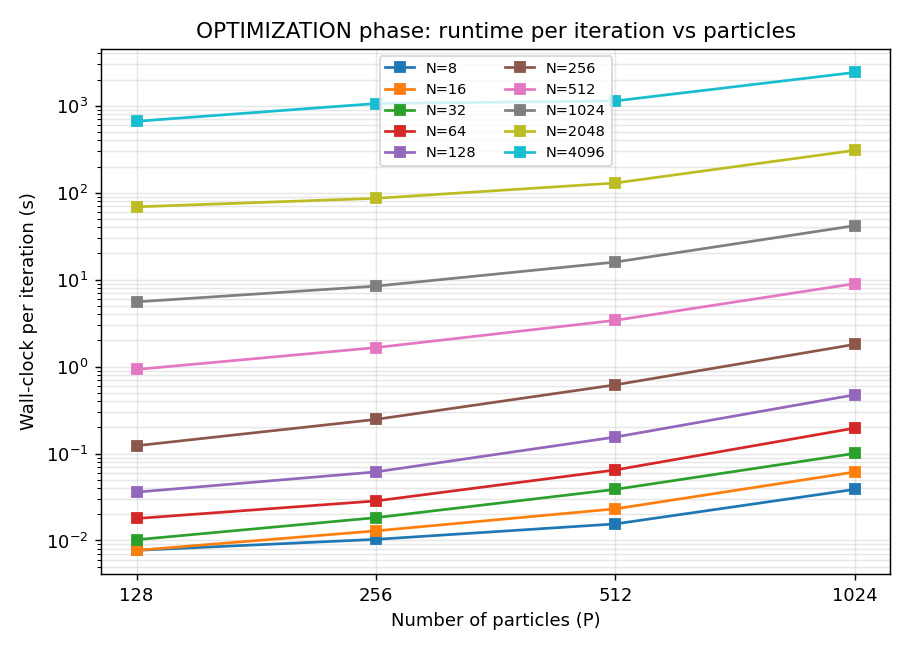
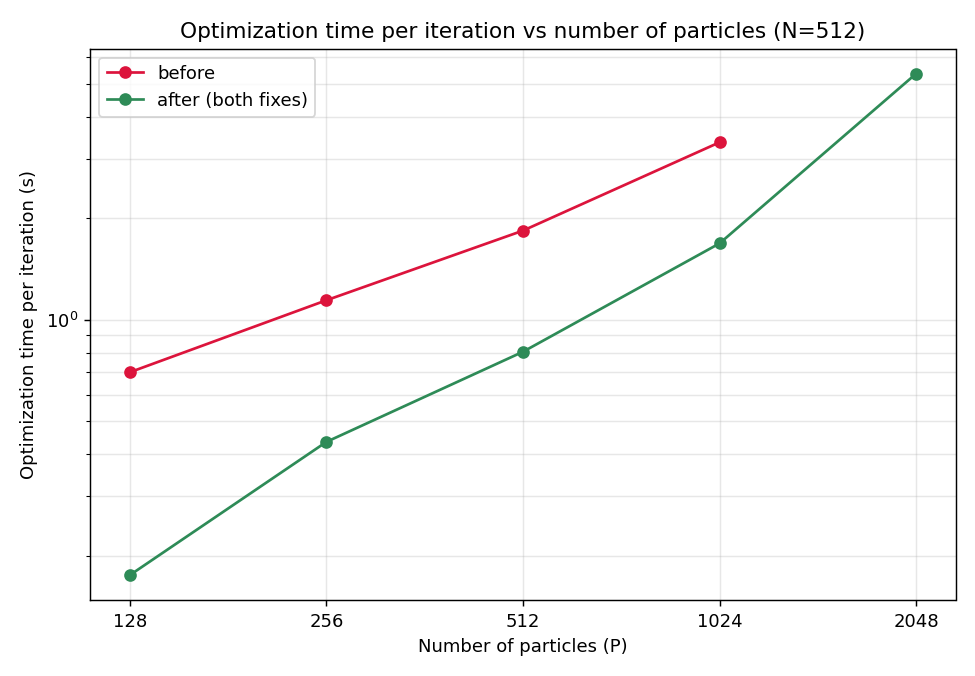
Update scaling doc for the optimizer improvements
Reflect the mean-energy and eigensolver changes: both phases are faster
and multi-core again, so the single-core-at-scale description no longer
applied. Rewrite the prose, add before/after charts across the full grid
to N=4096 (runtime and CPU utilization) plus end-to-end run times, and
correct the per-phase core counts. Note that runtime is still cubic in
the number of shapes but with a smaller constant, and that optimization
utilization improves but still declines at the very high end because the
eigensolve itself stays serial. Remove the pre-improvement collapse charts.

diff --git a/docs/workflow/optimize-scaling.md b/docs/workflow/optimize-scaling.md
@@ -1,117 +1,117 @@
 # Optimization Performance & Scaling
 
-This page explains how `shapeworks optimize` scales with the size of your dataset: how runtime grows
-with the number of shapes and particles, and why very large cohorts tend to use only a single CPU
-core. If you are optimizing hundreds or thousands of shapes and seeing long runtimes or low CPU
-utilization, this page describes what to expect and what you can do about it.
+This page explains how `shapeworks optimize` scales with the size of your dataset, and what recent
+improvements changed. If you are optimizing hundreds or thousands of shapes and want to know what to
+expect for runtime and CPU usage, start here.
 
 ## What to expect
 
-- Runtime grows cubically with the number of shapes (subjects, N). Doubling the number of shapes can
-  multiply optimization time by roughly 8x in the large-cohort regime.
-- Large cohorts use about one CPU core. Small and medium datasets parallelize across many cores. As
-  the number of shapes grows into the thousands, the optimizer spends most of its time in a serial
-  step, so utilization falls toward a single core.
-- Particle count is much cheaper than shape count. Increasing the number of particles grows runtime
-  far more slowly than increasing the number of shapes.
+- Runtime grows faster with the number of shapes (subjects, N) than with the number of particles. The
+  correspondence step at the center of each iteration decomposes an N×N matrix built from the shapes,
+  which costs O(N³), so adding shapes is much more expensive than adding particles.
+- Recent improvements cut this cost and restored multi-core use in both phases of a run. A full run at
+  N=1024 is about 3.5x faster than before, and the gap grows with N. See
+  [Recent improvements](#recent-improvements) below.
+- Adding particles is much cheaper than adding shapes.
 
-## What you can do
+## Recent improvements
 
-- Use incremental optimization for large cohorts. It optimizes a small initial subset of shapes from
-  scratch, then adds the remaining shapes in batches. The expensive particle initialization runs only
-  on the initial subset, and each later batch starts from already-placed particles, so the
-  full-cohort passes need far fewer iterations. This lowers total runtime. It does not remove the
-  per-iteration cost: the final batch still includes every shape and pays the O(N³) SVD each
-  iteration. See [Incremental Supershapes](../use-cases/multistep/incremental_supershapes.md) for a
-  worked example. Incremental optimization is available through the Python and command-line
-  interfaces; ShapeWorks Studio does not currently support it.
-- Lowering the iteration count does not reduce the per-iteration cost. The expensive step runs every
-  iteration, so lowering `optimization_iterations` reduces the number of iterations but not the cost
-  of each one.
-- If you need higher-resolution models, adding particles is much cheaper than adding shapes.
+Two changes to the per-iteration correspondence update made both phases of a run faster and brought
+back multi-core usage on large cohorts. Neither changes the optimization result.
 
-## Why
+1. Initialization no longer multiplies by an identity matrix. In the initialization (mean-energy)
+   phase the update reduces to the mean-centered points, but the code used to build an N×N identity
+   and run the full multiply every iteration, an O(P·N²) no-op. Removing it makes initialization far
+   faster at scale (the whole initialization phase at N=2048 went from about 10 minutes to about 45
+   seconds) and keeps it multi-core.
+
+2. The optimization phase uses a symmetric eigensolver. The N×N matrix is symmetric
+   positive-semidefinite, so a symmetric eigensolver replaces the general SVD and the surrounding
+   matrix work runs multithreaded. This is faster per iteration by an amount that grows with N: about
+   2.6x at N=512, 8x at N=2048, and 14x at N=4096.
+
+End to end, both changes together (initialization plus optimization), on the same cohorts:
+
+![end to end before and after](../img/optimize-scaling/improvement_e2e_walltime.png)
+
+| N | before | after | speedup |
+|---|---|---|---|
+| 256 | 10.0 s | 8.0 s | 1.3x |
+| 512 | 53.6 s | 22.6 s | 2.4x |
+| 1024 | 224.9 s | 64.0 s | 3.5x |
+
+Below a few hundred shapes the difference is small, because the parts these changes target only
+dominate at larger N. The payoff grows with the cohort.
+
+CPU utilization also recovers. Mean cores busy for each phase (of 24), before and after, at P=256:
+
+| N | initialization before / after | optimization before / after |
+|---|---|---|
+| 256 | 11.9 / 13.8 | 9.0 / 10.9 |
+| 1024 | 4.0 / 12.7 | 4.0 / 7.4 |
+| 2048 | 2.0 / 12.6 | 2.4 / 7.0 |
+
+![CPU utilization vs N](../img/optimize-scaling/cores_vs_N.png)
+
+Before the changes, optimization utilization fell to about 1.5 cores at N=4096. After, it stays around
+6, because the eigensolve itself is still serial even though the matrix work around it is now
+threaded. So utilization is much better but still declines at the very high end.
+
+## Why shapes cost more than particles
 
 Each optimization iteration has two parts:
 
 | part | complexity | parallel? |
 |---|---|---|
 | per-particle gradient update (`tbb::parallel_for` over subjects) | O(N·P) | yes, across subjects |
-| correspondence entropy: an N×N Gram matrix and one SVD | O(N³) | no, single-threaded |
+| correspondence: build the N×N matrix and decompose it | O(N³) | the eigensolve is serial; the surrounding matrix work runs multithreaded |
 
-N is the number of subjects and P the number of particles. The per-particle gradient is spread across
-cores, but the correspondence step runs a serial SVD on an N×N matrix once per iteration, which is
-O(N³). As N grows, that serial cubic step dominates, so total runtime grows cubically and CPU usage
-falls toward one core. This happens whether or not `use_normals` is enabled, because both
-correspondence formulations build the same N×N SVD.
+N is the number of subjects and P the number of particles. The decomposition is O(N³) in the number
+of shapes, so runtime still grows cubically with N even after the improvements. The changes lower the
+constant and parallelize most of the surrounding work, but the eigensolve itself is serial, which is
+why very large cohorts remain expensive. This holds whether or not `use_normals` is enabled, because
+both correspondence formulations build the same N×N decomposition.
+
+![runtime vs N](../img/optimize-scaling/runtime_vs_N.png)
+
+Optimization time per iteration, before and after. Both follow the N³ reference at large N, so the
+slope is unchanged, but the eigensolver change shifts the curve down by a widening margin, reaching
+about 14x at N=4096. At very small N the two are within measurement noise; the eigensolver has a small
+fixed overhead that does not matter once the matrices are tiny.
+
+![runtime vs P](../img/optimize-scaling/runtime_vs_P.png)
+
+Adding particles grows the cheaper terms, not the cubic decomposition, so it scales far more slowly
+than adding shapes.
+
+## What you can do for very large cohorts
+
+- Use incremental optimization. It optimizes a small initial subset of shapes from scratch, then adds
+  the remaining shapes in batches. The expensive particle initialization runs only on the initial
+  subset, and each later batch starts from already-placed particles, so the full-cohort passes need
+  far fewer iterations. It does not remove the per-iteration cost: the final batch still includes
+  every shape and pays the O(N³) decomposition each iteration. See
+  [Incremental Supershapes](../use-cases/multistep/incremental_supershapes.md) for a worked example.
+  Incremental optimization is available through the Python and command-line interfaces; ShapeWorks
+  Studio does not currently support it.
+- Lowering the iteration count does not reduce the per-iteration cost. The decomposition runs every
+  iteration, so lowering `optimization_iterations` reduces the number of iterations but not the cost
+  of each one.
+- If you need higher-resolution models, adding particles is much cheaper than adding shapes.
 
 ## Measurements
 
 Measured on a 24-core machine with 128 GB of memory. Cohorts were built by replicating a single femur
 mesh (15,002 vertices) N times with a small random rigid transform and per-vertex noise, so N can be
-varied over a wide range. Shape content does not affect the O(N³) SVD, which depends only on the
-matrix size. Metrics are reported per iteration, since a full 100-iteration run at N=4096 takes days.
-
-### Runtime per iteration vs number of shapes
-
-![runtime vs N](../img/optimize-scaling/runtime_vs_N.png)
-
-The curve is flat at small N, where the parallel work dominates, then bends up to follow the N³
-reference beyond N=512. The lines converge because the SVD cost does not depend on the particle
-count.
-
-### The serial SVD overtakes the parallel work
-
-![phase vs N](../img/optimize-scaling/phase_vs_N.png)
-
-The serial SVD (slope near 3) passes the parallel per-particle work (slope near 1) at about N=1024 and
-dominates beyond that.
-
-### CPU utilization vs number of shapes
-
-![cores vs N](../img/optimize-scaling/cores_vs_N.png)
-
-Mean cores busy rises to a peak around N=64, then falls as the serial SVD takes over, dropping to
-about 1.3 cores at N=4096. A cohort of thousands of shapes sits on the right side of this curve, in
-the single-core regime. The high utilization on small datasets is the left side of the same curve.
-
-### Particle scaling is much milder
-
-![runtime vs P](../img/optimize-scaling/runtime_vs_P.png)
-
-Adding particles grows the cheaper terms, not the cubic SVD, so it scales far more slowly than adding
-shapes.
-
-## Initialization vs optimization
-
-A run has two phases. Initialization adds particles by splitting, running `iterations_per_split`
-iterations at each level. Optimization then runs `optimization_iterations` at the full particle count.
-The expensive SVD runs in the optimization phase; initialization uses a cheaper mean-energy mode. For
-a typical run, initialization is often the majority of the wall time.
-
-![cores init vs opt](../img/optimize-scaling/cores_init_vs_opt.png)
-
-Core utilization for each phase measured in isolation (P=256):
-
-| N | initialization cores | optimization cores |
-|---|---|---|
-| 256 | 11.9 | 9.0 |
-| 1024 | 4.0 | 4.0 |
-| 2048 | 2.0 | 2.4 |
-
-Initialization parallelizes well for typical cohorts of up to a few hundred shapes, but at thousands
-of shapes it also becomes serial-bound. Very large cohorts see reduced CPU utilization in both phases.
-
-![cores mixed](../img/optimize-scaling/cores_mixed_vs_N.png)
-
-The blended view of a realistic run shows high utilization at small N, falling toward a single core as
-the number of shapes reaches the thousands.
+varied over a wide range. Shape content does not affect the decomposition cost, which depends only on
+the matrix size. Before and after numbers come from back-to-back runs with the binary swapped per N
+under the same load, since machine contention alone can move cross-run timings by roughly 1.8x.
 
 ## Summary
 
-- The cubic runtime and single-core behavior on large cohorts are expected. A serial O(N³) SVD runs
-  once per optimization iteration.
+- Runtime still grows cubically with the number of shapes, because the correspondence step decomposes
+  an N×N matrix each iteration. Recent improvements lowered the constant and restored multi-core use,
+  but did not change the cubic shape.
 - The number of shapes drives the cost. The number of particles has less of an impact.
-- No setting removes the per-iteration O(N³) cost. Incremental optimization is the most useful option
-  for large cohorts: it does the expensive initialization on a small subset and lets later batches run
-  with far fewer iterations.
+- For very large cohorts, incremental optimization is the most useful option: it does the expensive
+  initialization on a small subset and lets later batches run with far fewer iterations.